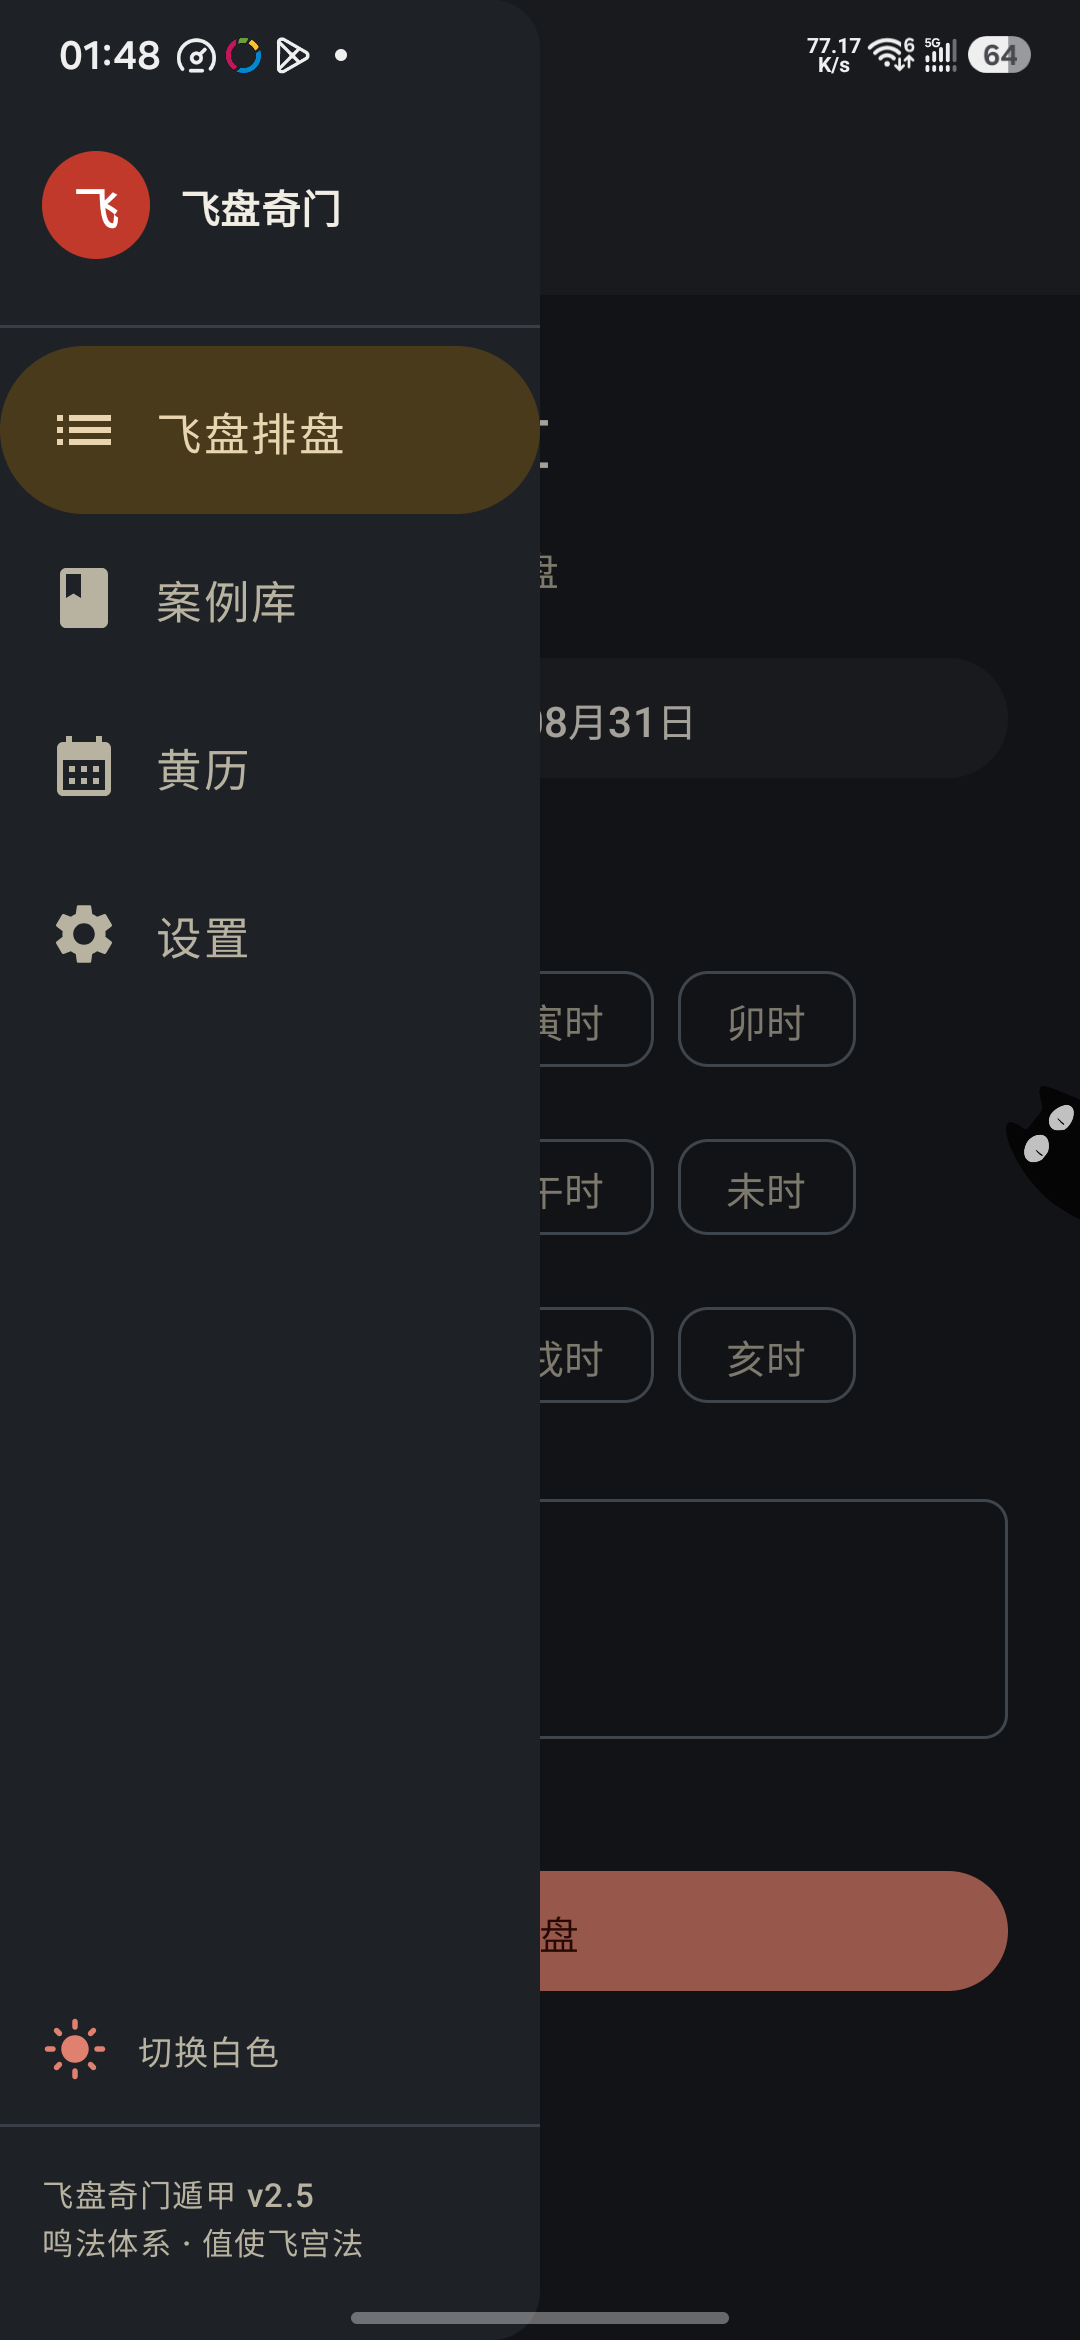
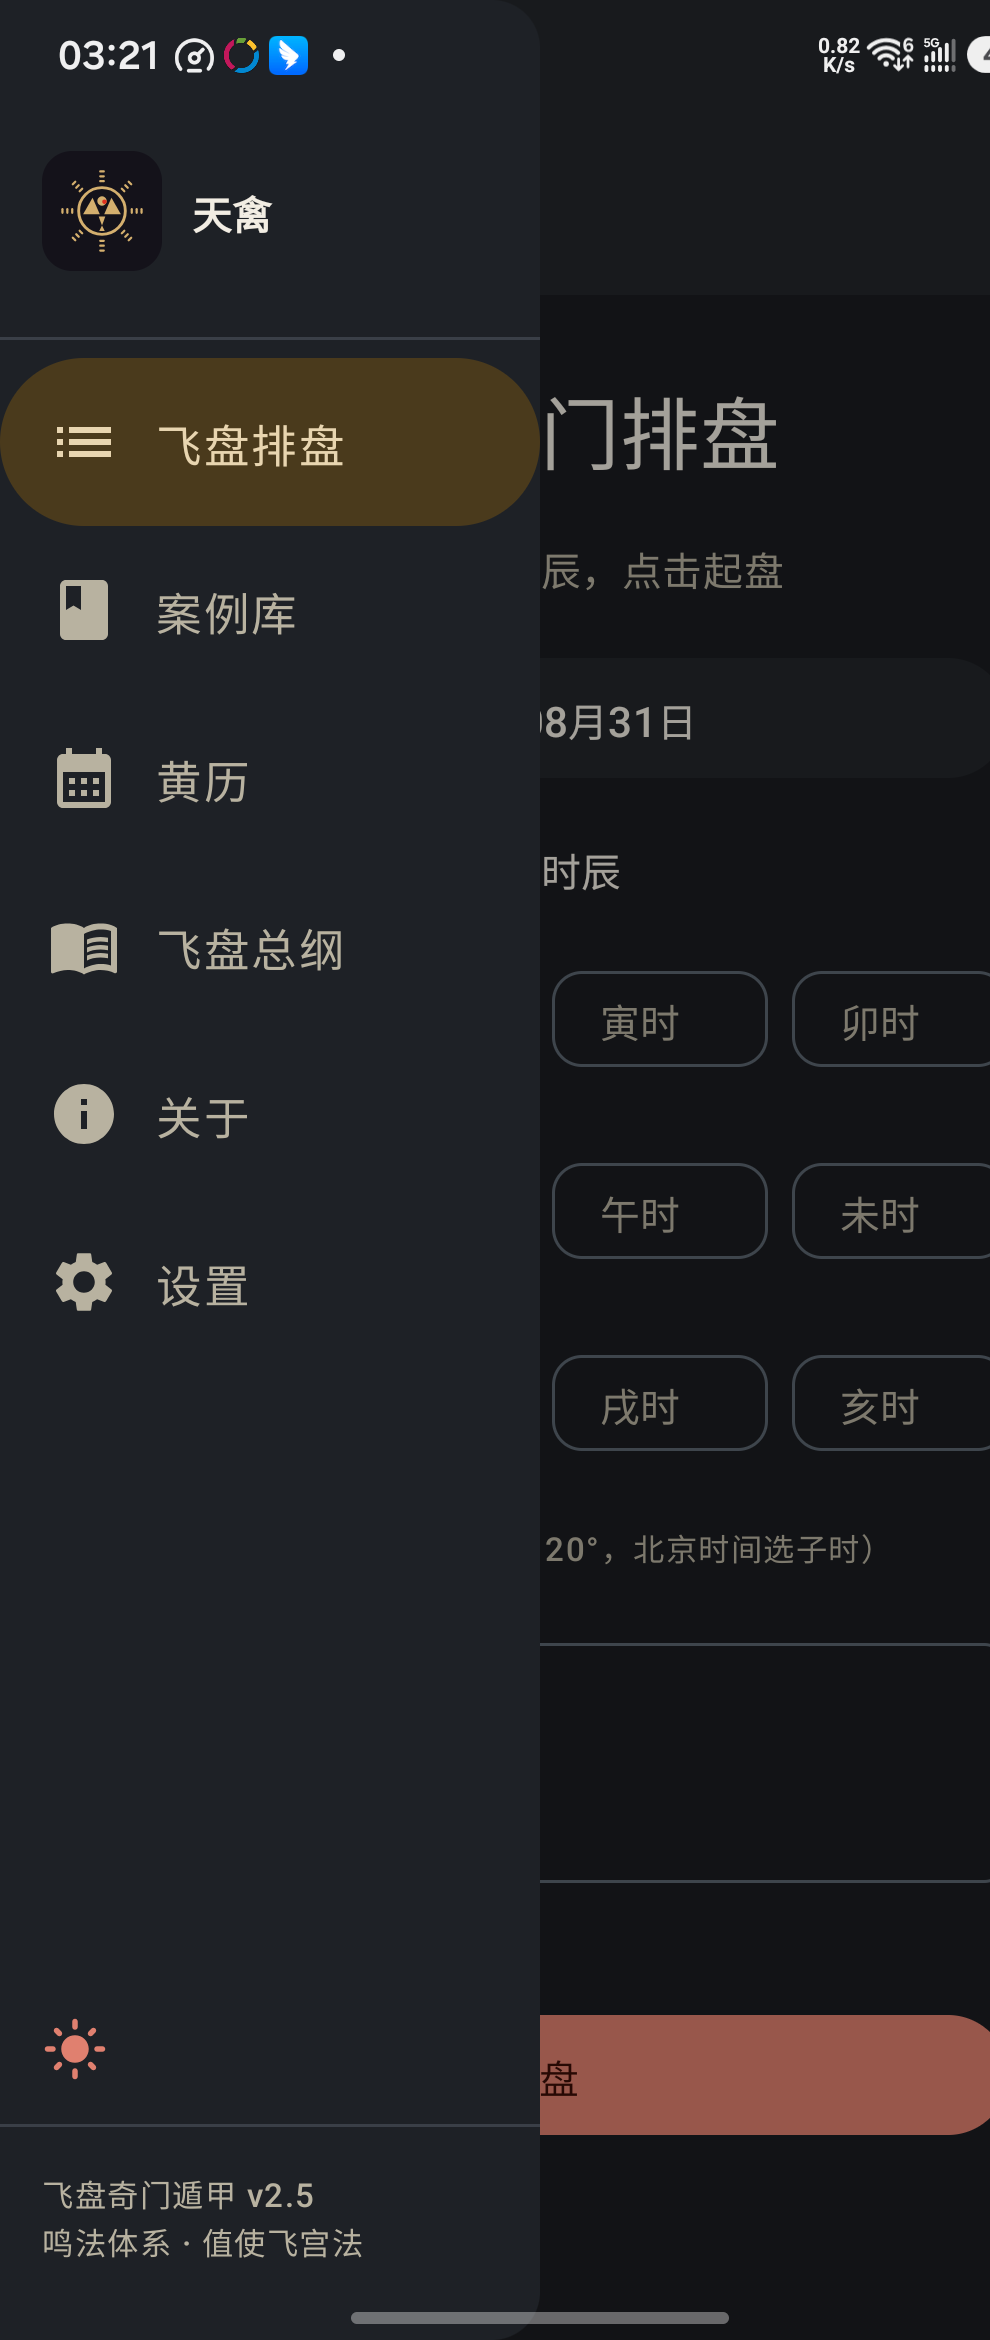
feat: v2.6.7 侧滑栏版本动态化；README 精简 + 截图更新

diff --git a/app/src/main/java/com/potuo/feipanqimen2/MainActivity.kt b/app/src/main/java/com/potuo/feipanqimen2/MainActivity.kt
@@ -312,7 +312,9 @@ fun MainApp(
                 }
                 HorizontalDivider(modifier = Modifier.padding(vertical = 4.dp))
                 Text(
-                    "飞盘奇门遁甲 v2.5\n鸣法体系 · 值使飞宫法",
+                    "天禽 v${runCatching {
+                        context.packageManager.getPackageInfo(context.packageName, 0).versionName ?: "?"
+                    }.getOrDefault("?")}\n飞盘奇门 · 鸣法体系 · 值使飞宫法",
                     style = MaterialTheme.typography.labelSmall,
                     color = MaterialTheme.colorScheme.onSurfaceVariant,
                     modifier = Modifier.padding(horizontal = 14.dp, vertical = 10.dp),

diff --git a/README.md b/README.md
@@ -6,30 +6,24 @@
 [![Kotlin](https://img.shields.io/badge/Kotlin-2.x-purple.svg)](https://kotlinlang.org)
 [![Compose](https://img.shields.io/badge/Jetpack%20Compose-Material3-blue.svg)](https://developer.android.com/jetpack/compose)
 [![License](https://img.shields.io/badge/License-MIT-green.svg)](LICENSE)
-[![Version](https://img.shields.io/badge/Version-2.6.0-orange.svg)]()
 
-飞盘奇门排盘是一款遵循《奇门基础资料 2023版教》口径的奇门遁甲排盘工具。与市面上常见的转盘奇门不同，本 App 采用**飞盘（鸣法）体系**：九星八门按洛书宫序顺飞、天禽居中宫、符使可入中，并严格实现「值使门飞宫法」与「符头地支定元」。
+飞盘奇门排盘工具，遵循《奇门基础资料 2023版教》口径：九星八门按洛书宫序顺飞、天禽居中宫、符使可入中，严格实现「值使门飞宫法」与「符头地支定元」。
 
-## ✨ 功能特性
+## ✨ 功能
 
-| 功能 | 说明 |
-|---|---|
-| 🌀 **飞盘排盘** | 完整七步排盘：四柱 → 节气定局（符头定元）→ 地盘奇仪 → 天盘奇仪 → 九神 → 九星八门（星门顺飞/天禽居中/中门居中）→ 暗干支（飞宫法） |
-| 📅 **黄历详情** | 农历/生肖/节日/节气/二十八宿 + 宜忌/冲煞/彭祖百忌/吉神宜趋/凶煞宜忌，支持任意日期查询 |
-| 🗂 **案例库** | 排盘保存为案例（标签+备注），双列卡片墙展示（迷你盘面缩略图），即时搜索 |
-| 🆕 **检查更新** | 无服务器检测更新（GitHub 发布源 + CDN 兜底），启动静默检查、设置页手动检查，发现新版本一键下载安装 |
-| 🔍 **格局检测** | 自动检测六仪击刑/入墓/门迫/伏吟反吟/守门/空亡，标注吉凶（据教材第三卷） |
-| ☀ **真太阳时** | 按所在经度校正真太阳时（教材「抽时选局」口径），跨时辰边界自动提示 |
-| 📤 **分享盘面** | 一键生成盘面分享图（跟随主题配色），分享给好友 |
-| 📤 **导入导出** | 案例 JSON 导出/导入（系统文件选择器），数据完全本地掌控 |
-| 📋 **应用日志** | 排盘/案例操作/崩溃堆栈自动记录，设置页一键导出（方便问题反馈与检核） |
-| 🎨 **古典金 / 紫微主题** | 古典金黄红金中式配色 + 紫微蓝紫星象配色（参考 JetSnack 设计库），各含浅色宣纸/暗色墨底两态，设置页一键切换 |
-| 🖼 **启动动画** | 罗盘金环旋转 + 标题浮现，跟随主题明暗 |
-| 🧭 **侧滑栏导航** | 飞盘排盘 / 案例库 / 黄历 / 设置，抽屉式导航（Jetchat 风格） |
+- 🌀 **飞盘排盘**：定局 → 布盘 → 星门顺飞 → 暗干支，完整七步
+- 🔍 **格局检测**：击刑 / 入墓 / 门迫 / 伏吟反吟 / 守门 / 空亡，自动标注吉凶
+- 📅 **黄历详情**：宜忌 / 冲煞 / 彭祖 / 吉神凶煞 / 二十八宿
+- 🗂 **案例库**：事项分类（求财/事业/婚姻…），筛选 + 统计 + 导入导出
+- ☀ **真太阳时**：经度校正，跨时辰边界自动提示
+- 📤 **盘面分享**：一键生成分享图
+- 📖 **飞盘总纲**：内置教材《奇门基础资料 2023版教》三卷
+- 🆕 **检查更新**：无服务器方案，自动检测新版本
+- 🎨 **双主题**：古典金 / 紫微 × 浅色 / 暗色
 
-## 📸 界面预览
+## 📸 截图
 
-| 排盘输入 | 排盘盘面 | 侧滑栏 |
+| 排盘输入 | 盘面结果 | 侧滑栏 |
 |---|---|---|
 | ![输入页](screenshots/02_input.png) | ![盘面](screenshots/03_result.png) | ![侧滑栏](screenshots/04_drawer.png) |
 
@@ -37,99 +31,23 @@
 |---|---|---|
 | ![黄历](screenshots/05_huangli.png) | ![案例](screenshots/06_cases.png) | ![设置](screenshots/07_settings.png) |
 
-> 截图基于古典金暗色主题。盘面中值符/值使宫以朱砂描边 + 「符」「使」印章角标突出，中宫以金色圆形标记天禽。
+## 📦 下载安装
 
-## 🧮 排盘算法（据《奇门基础资料 2023版教》）
-
-### 核心规则（飞盘 vs 转盘的根本差异）
-
-| 项目 | 转盘（普通奇门） | **本 App（飞盘）** |
-|---|---|---|
-| 天禽星 | 寄坤二宫 | **居中宫，随局更使** |
-| 九星/八门 | 随值符旋转 | **按洛书宫序顺飞**（阴阳遁皆顺飞） |
-| 八门 | 八门 | **九门**（多一「中门」居中宫） |
-| 值符/值使 | 不入中宫 | **可入中宫** |
-| 八神 | 八神 | **九神**（多「太常」，另白虎藏勾陈、玄武藏朱雀） |
-
-### 排盘七步
-
-1. **排四柱**：立春分年、节令分月、子时分日；五虎遁起月、五鼠遁起时
-2. **定局**：冬至后阳遁/夏至后阴遁；**符头地支定元**（甲/己日为符头，子午卯酉上元、寅申巳亥中元、辰戌丑未下元），查节气局数表
-3. **布地盘奇仪**：戊己庚辛壬癸丁丙乙，阳顺阴逆布洛书九宫
-4. **布天盘奇仪**：值符干（旬首遁仪）加地盘时干宫，奇仪整体平移
-5. **布九神**：值符螣蛇太阴六合勾陈太常朱雀九地九天，阳顺阴逆
-6. **布九星八门（飞盘核心）**：
-   - 值符星 = 旬首遁仪宫本位星，加时干宫后**顺飞**
-   - **值使门 = 从旬首宫按六十甲子序数阳顺阴逆数到当前时辰（飞宫法）**
-   - 天禽固定中宫、中门固定中宫
-7. **布暗干支**：时干支加值使宫，飞宫法顺逆排布；空亡不排、遇甲不排
-
-### 校验案例
-
-- **2026-08-17 22:00**（癸亥时，阴遁八局）：旬首甲寅遁癸落震3 → 值使伤门落震3 ✓
-- **2025-10-22 卯时**（丁卯时，阴遁六局）：旬首甲子遁戊落乾6 → 值使开门落震3 ✓
-- **2024-12-03 9:19**（癸巳时，阴遁八局）：值使开门落乾6 ✓
-
-## 🛠 技术栈
-
-- **Kotlin + Jetpack Compose**（Material 3，单 Activity 架构）
-- **Room**（案例本地数据库，LIKE 即时搜索）
-- **Gson**（盘面序列化 / JSON 导入导出）
-- **[cn.6tail:lunar](https://6tail.cn)**（农历/干支/节气/黄历历法引擎）
-- minSdk 26 / targetSdk 34 / compileSdk 34
-- Gradle 9.7 / AGP 9.3 / JDK 17+
-
-## 📁 项目结构
-
-```
-app/src/main/java/com/potuo/feipanqimen2/
-├── MainActivity.kt          # 单 Activity：侧滑栏框架 + 启动动画 + 主题管理
-├── qimen/
-│   ├── QimenCalculator.kt   # 飞盘排盘核心算法（纯 Kotlin，可单测）
-│   ├── QimenModels.kt       # 数据模型（九宫/盘面/四柱）
-│   ├── QimenConstants.kt    # 星/门/神/奇仪/局数表常量
-│   └── HuangLiService.kt    # 黄历数据服务（lunar 库封装）
-├── data/                    # Room 实体/Dao/仓库 + 导入导出
-├── log/LogManager.kt        # 应用日志系统（按天滚动 + 崩溃捕获）
-├── ui/
-│   ├── InputScreen.kt       # 排盘输入页（日期+十二时辰+备注）
-│   ├── ResultScreen.kt      # 盘面结果页（九宫+黄历+保存案例）
-│   ├── HuangLiScreen.kt     # 黄历详情页
-│   ├── CaseListScreen.kt    # 案例库（双列卡片墙+搜索）
-│   ├── CaseDetailScreen.kt  # 案例详情（编辑/导出/删除）
-│   ├── SettingsScreen.kt    # 设置（折叠分组：外观/数据/日志/更新）
-│   └── components/          # 盘面/黄历卡/通用组件
-└── viewmodel/MainViewModel.kt
-```
-
-## 🏗 构建与安装
+最新 APK 见 [Releases](https://github.com/potuo/feipan-qimen/releases)。
 
 ```bash
-# 环境：JDK 17+、Android SDK（compileSdk 34）
-./gradlew test          # 运行算法单元测试（含排盘校验案例）
-./gradlew assembleDebug # 构建 Debug APK
-# 产物：app/build/outputs/apk/debug/app-debug.apk
-
-# 安装到已连接设备
+./gradlew test          # 算法单测（含校验案例）
+./gradlew assembleDebug # 构建 APK
 adb install -r app/build/outputs/apk/debug/app-debug.apk
 ```
 
 ## 📜 版本历史
 
-- **v2.6**：格局检测（击刑/入墓/门迫/伏吟反吟/守门/空亡）；真太阳时校正（经度设置）；盘面分享图；案例事项类别（筛选/统计）；盘面配色跟随主题；侧滑栏新增飞盘总纲（内置教材）与关于
-- **v2.5.1**：新增检查更新（GitHub 发布源，无服务器）；新增紫微主题（蓝紫星象，浅色/暗色两态）；设置页新增关于（作者/GitHub）
-- **v2.5**：新增黄历详情页（侧滑栏入口）；侧滑栏黑白主题切换（图标动效）；主题收敛古典金；启动页跟随主题；侧滑栏 1/2 宽
-- **v2.4**：设置页折叠分组；四套配色（收敛为古典金两态）
-- **v2.3**：框架重构为侧滑栏导航；盘面恢复中式古典风格；启动动画
-- **v2.2**：Material 3 全面重构
-- **v2.1**：修复排盘崩溃（值使中门/甲时值符归位）；应用日志系统
-- **v2.0**：值使飞宫法 + 符头定元（教材口径重构）；黄历/案例库/导入导出
-
-## 🙏 致谢
-
-- 排盘规则依据：《奇门基础资料 2023版教》（鸣法/飞盘体系）
-- 历法引擎：[cn.6tail:lunar](https://6tail.cn)（lunar-java）
-- UI 参考：Google Now in Android / Compose Samples（Jetchat 抽屉导航、Jetcaster 卡片墙）
+- **v2.6.x**：更名「天禽」+ 八卦天禽图标；格局检测；真太阳时；盘面分享；案例分类；飞盘总纲；更新日志联网化
+- **v2.5**：黄历详情页；黑白主题切换；主题收敛古典金
+- **v2.4**：设置页折叠分组
+- **v2.3**：框架重构为侧滑栏导航；中式古典盘面；启动动画
+- **v2.0**：值使飞宫法 + 符头定元（教材口径重构）；黄历/案例库
 
 ## 📄 License
 
